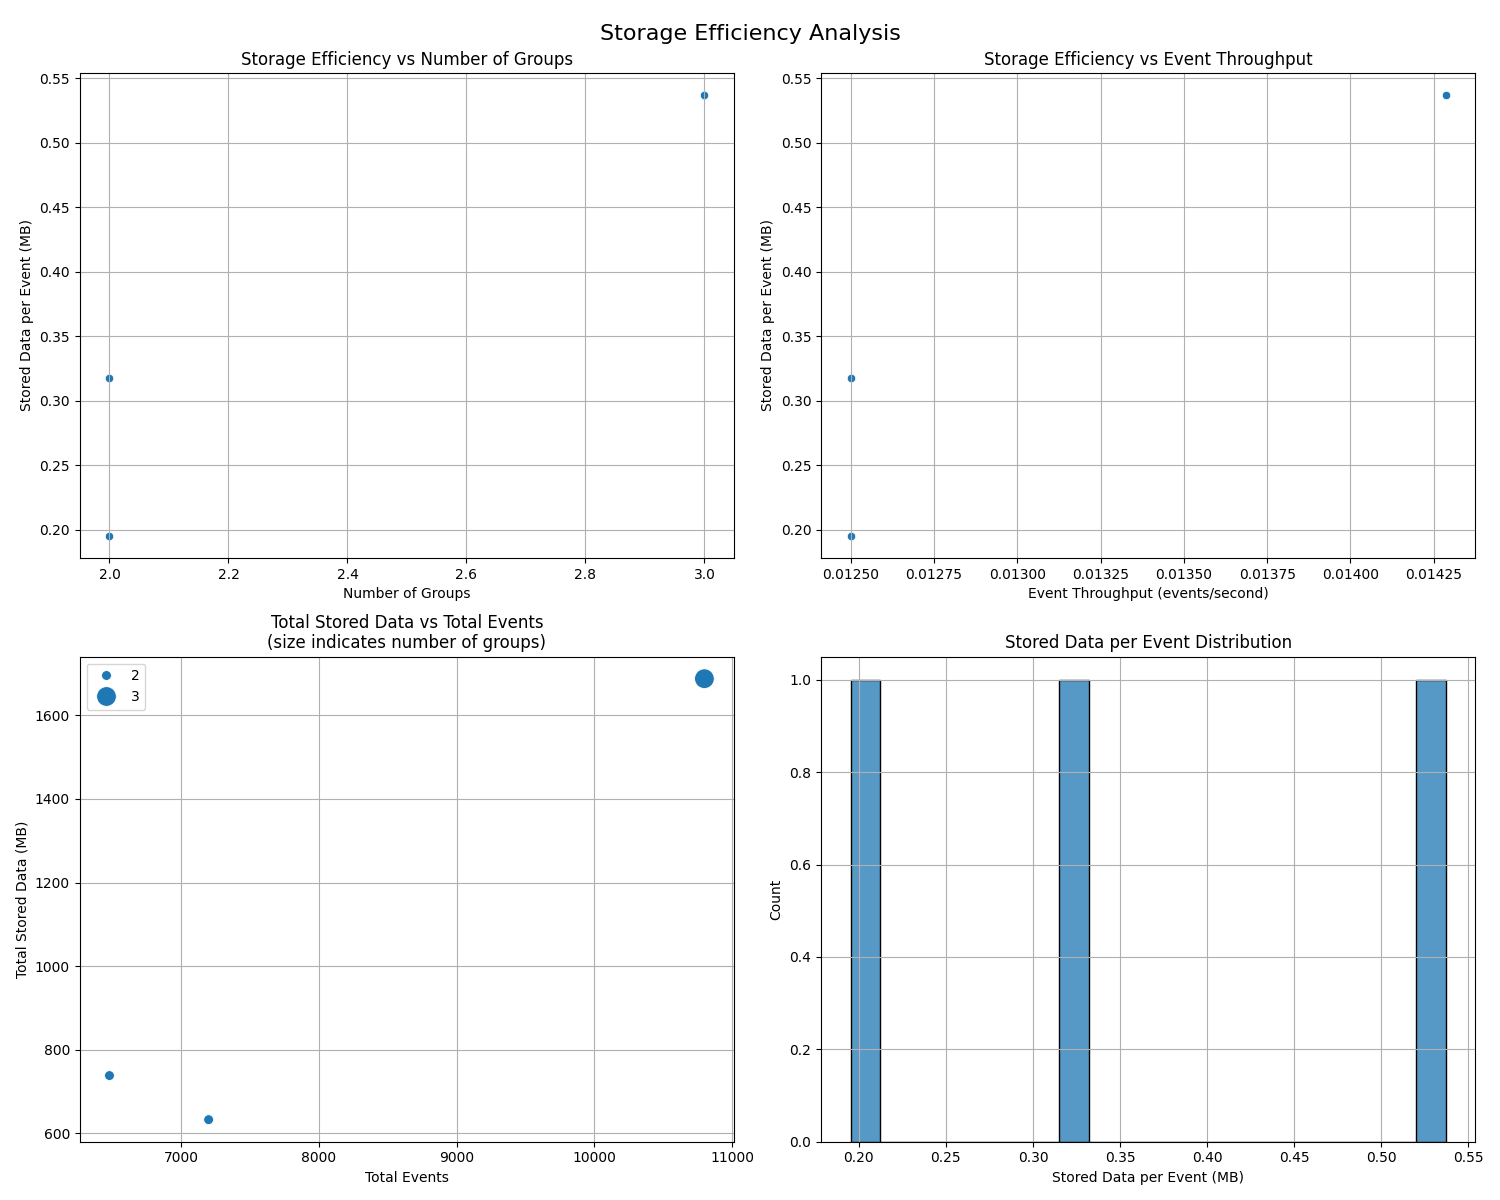
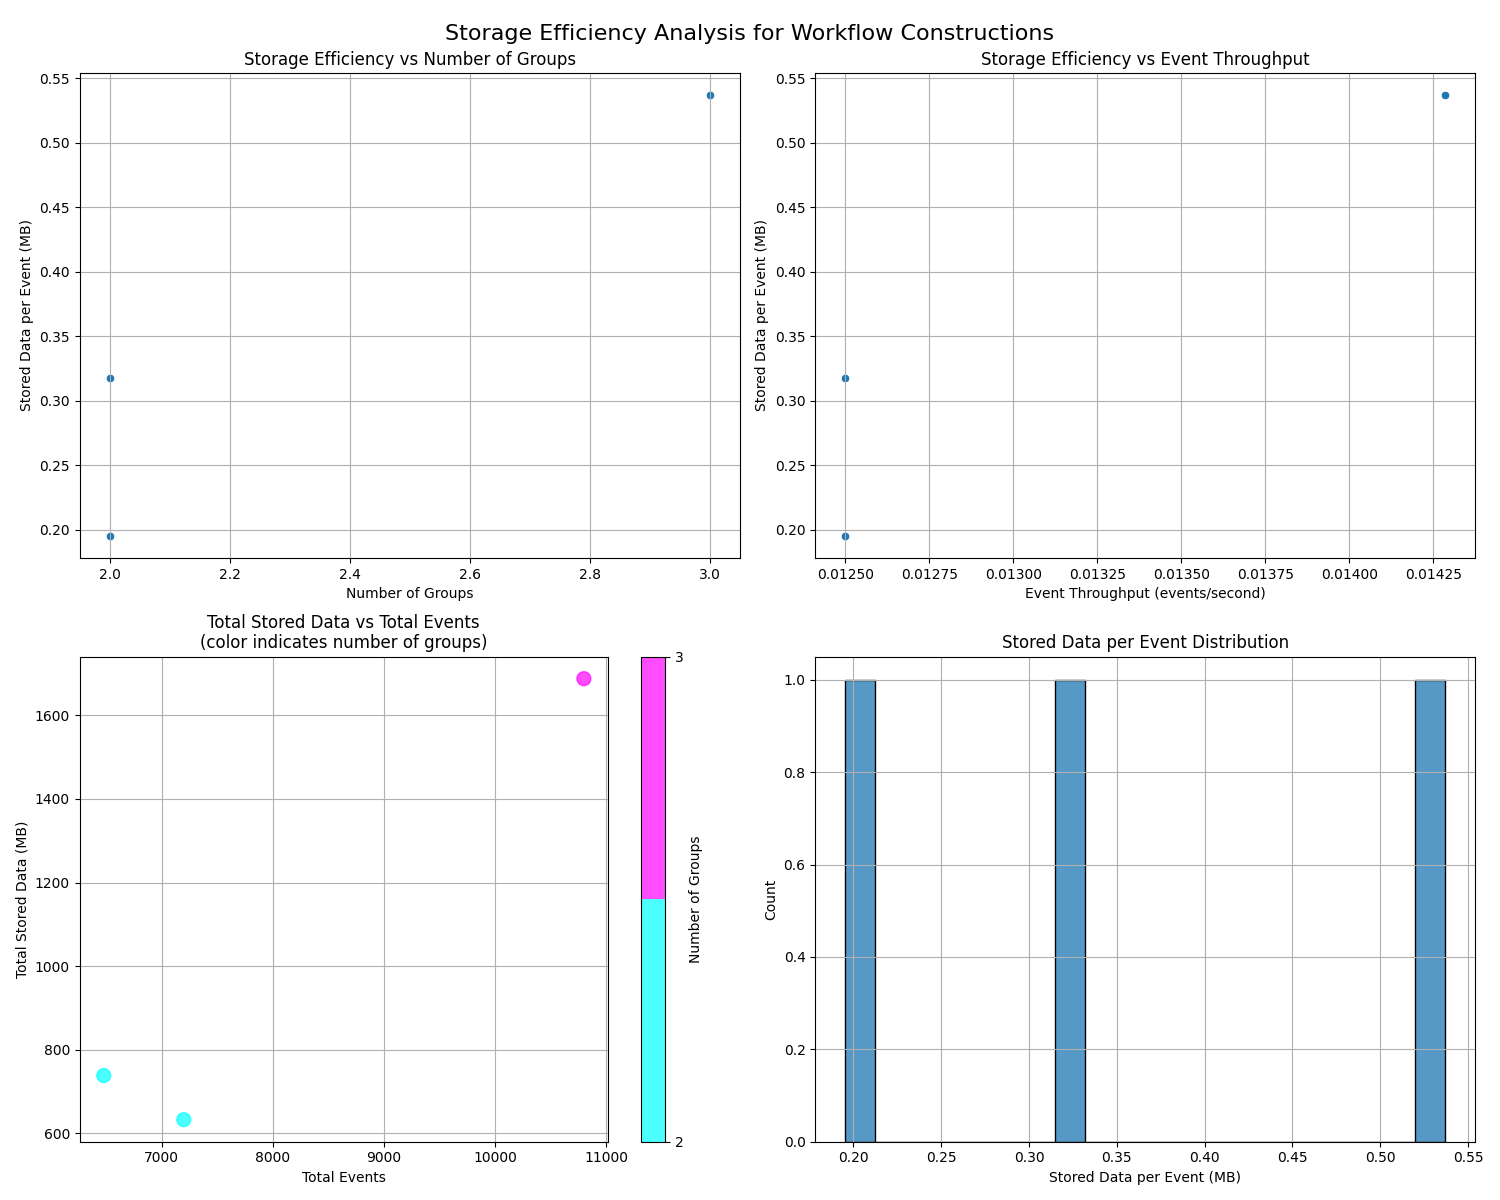
Output data for 3 tasks templates - improved plots with better legend

diff --git a/output/fork/3tasks/workflow_topologies.html b/output/fork/3tasks/workflow_topologies.html
@@ -79,8 +79,8 @@
     <li>Group group_0: Task1</li>
 <li>Group group_1: Task2</li>
 <li>Group group_2: Task3</li>
-<li>Group group_3: Task1, Task3</li>
-<li>Group group_4: Task1, Task2</li>
+<li>Group group_3: Task1, Task2</li>
+<li>Group group_4: Task1, Task3</li>
 
             </ul>
         </div>
@@ -123,14 +123,14 @@
             <div class="construction-title">Workflow Construction 1</div>
             <div class="mermaid">
             graph TD
-            Task1["Task1"]:::groupgroup_4
-    Task2["Task2"]:::groupgroup_4
+            Task1["Task1"]:::groupgroup_3
+    Task2["Task2"]:::groupgroup_3
     Task3["Task3"]:::groupgroup_2
     Task1 --> Task2
     Task1 --> Task3
 
     classDef default fill:#f9f9f9,stroke:#333,stroke-width:2px;
-    classDef groupgroup_4 fill:#FFEEAD,stroke:#333,stroke-width:2px,color:white;
+    classDef groupgroup_3 fill:#96CEB4,stroke:#333,stroke-width:2px,color:white;
     classDef groupgroup_2 fill:#45B7D1,stroke:#333,stroke-width:2px,color:white;
 </div></div>
 
@@ -138,14 +138,14 @@
             <div class="construction-title">Workflow Construction 2</div>
             <div class="mermaid">
             graph TD
-            Task1["Task1"]:::groupgroup_3
+            Task1["Task1"]:::groupgroup_4
     Task2["Task2"]:::groupgroup_1
-    Task3["Task3"]:::groupgroup_3
+    Task3["Task3"]:::groupgroup_4
     Task1 --> Task2
     Task1 --> Task3
 
     classDef default fill:#f9f9f9,stroke:#333,stroke-width:2px;
-    classDef groupgroup_3 fill:#96CEB4,stroke:#333,stroke-width:2px,color:white;
+    classDef groupgroup_4 fill:#FFEEAD,stroke:#333,stroke-width:2px,color:white;
     classDef groupgroup_1 fill:#4ECDC4,stroke:#333,stroke-width:2px,color:white;
 </div></div>
 

diff --git a/output/sequential/3tasks/workflow_topologies.html b/output/sequential/3tasks/workflow_topologies.html
@@ -79,9 +79,9 @@
     <li>Group group_0: Task1</li>
 <li>Group group_1: Task2</li>
 <li>Group group_2: Task3</li>
-<li>Group group_3: Task1, Task2</li>
+<li>Group group_3: Task2, Task3</li>
 <li>Group group_4: Task1, Task2, Task3</li>
-<li>Group group_5: Task2, Task3</li>
+<li>Group group_5: Task1, Task2</li>
 
             </ul>
         </div>
@@ -144,28 +144,28 @@
             <div class="mermaid">
             graph TD
             Task1["Task1"]:::groupgroup_0
-    Task2["Task2"]:::groupgroup_5
-    Task3["Task3"]:::groupgroup_5
+    Task2["Task2"]:::groupgroup_3
+    Task3["Task3"]:::groupgroup_3
     Task1 --> Task2
     Task2 --> Task3
 
     classDef default fill:#f9f9f9,stroke:#333,stroke-width:2px;
     classDef groupgroup_0 fill:#FF6B6B,stroke:#333,stroke-width:2px,color:white;
-    classDef groupgroup_5 fill:#D4A5A5,stroke:#333,stroke-width:2px,color:white;
+    classDef groupgroup_3 fill:#96CEB4,stroke:#333,stroke-width:2px,color:white;
 </div></div>
 
         <div class="construction">
             <div class="construction-title">Workflow Construction 3</div>
             <div class="mermaid">
             graph TD
-            Task1["Task1"]:::groupgroup_3
-    Task2["Task2"]:::groupgroup_3
+            Task1["Task1"]:::groupgroup_5
+    Task2["Task2"]:::groupgroup_5
     Task3["Task3"]:::groupgroup_2
     Task1 --> Task2
     Task2 --> Task3
 
     classDef default fill:#f9f9f9,stroke:#333,stroke-width:2px;
-    classDef groupgroup_3 fill:#96CEB4,stroke:#333,stroke-width:2px,color:white;
+    classDef groupgroup_5 fill:#D4A5A5,stroke:#333,stroke-width:2px,color:white;
     classDef groupgroup_2 fill:#45B7D1,stroke:#333,stroke-width:2px,color:white;
 </div></div>
 
